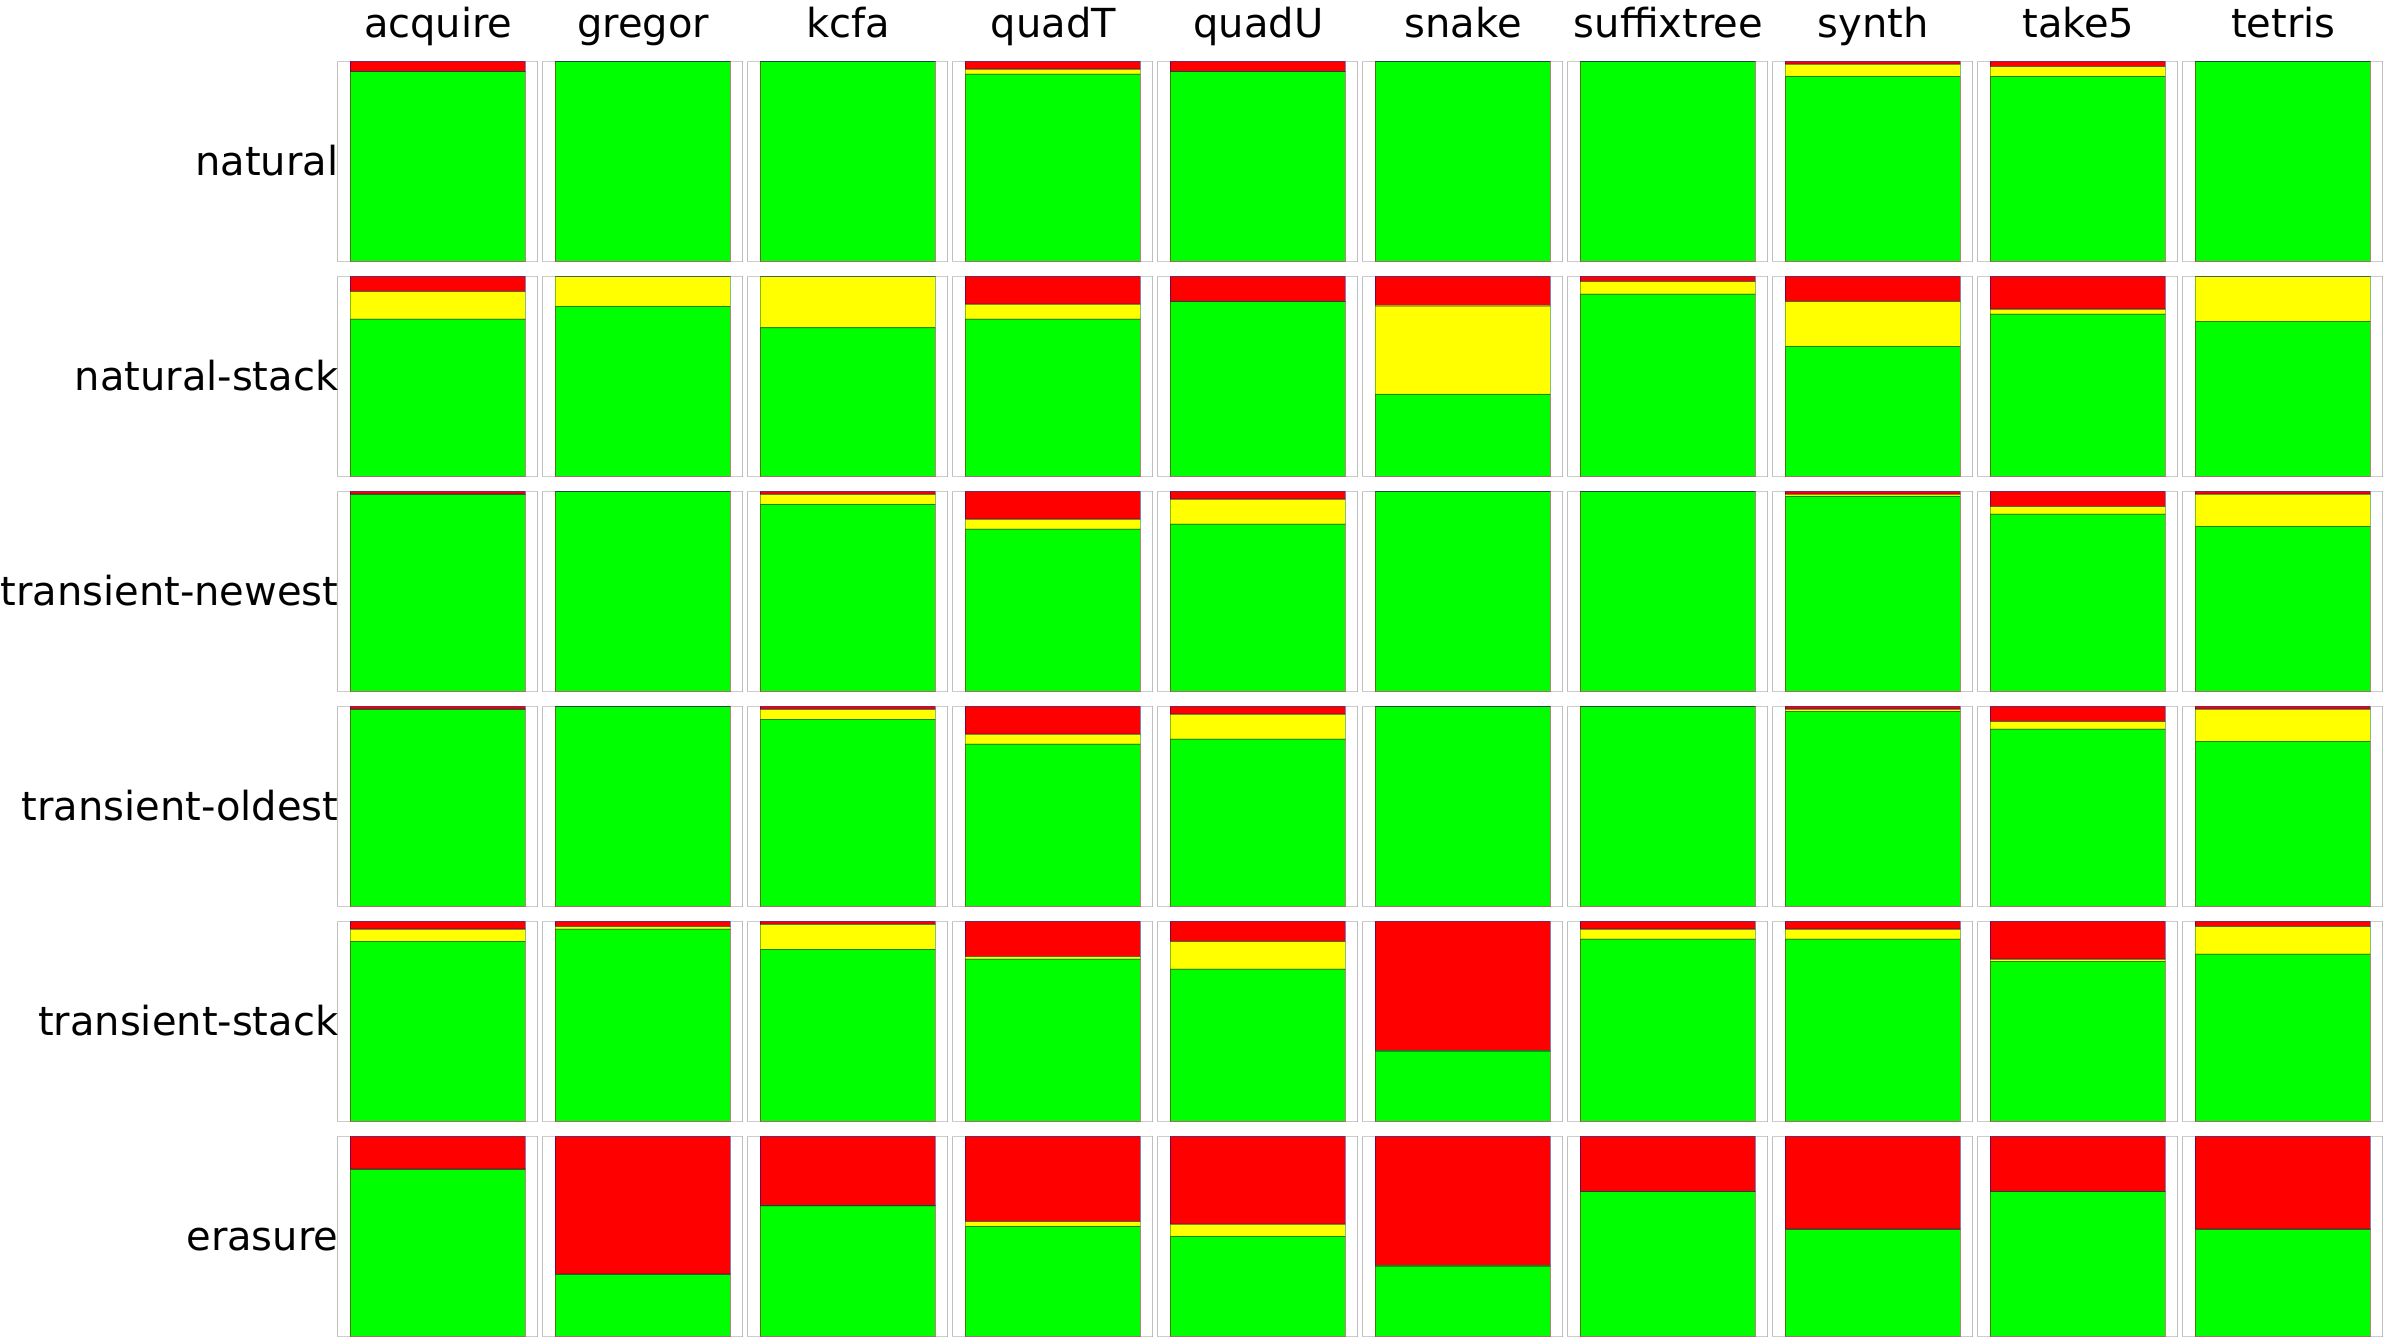
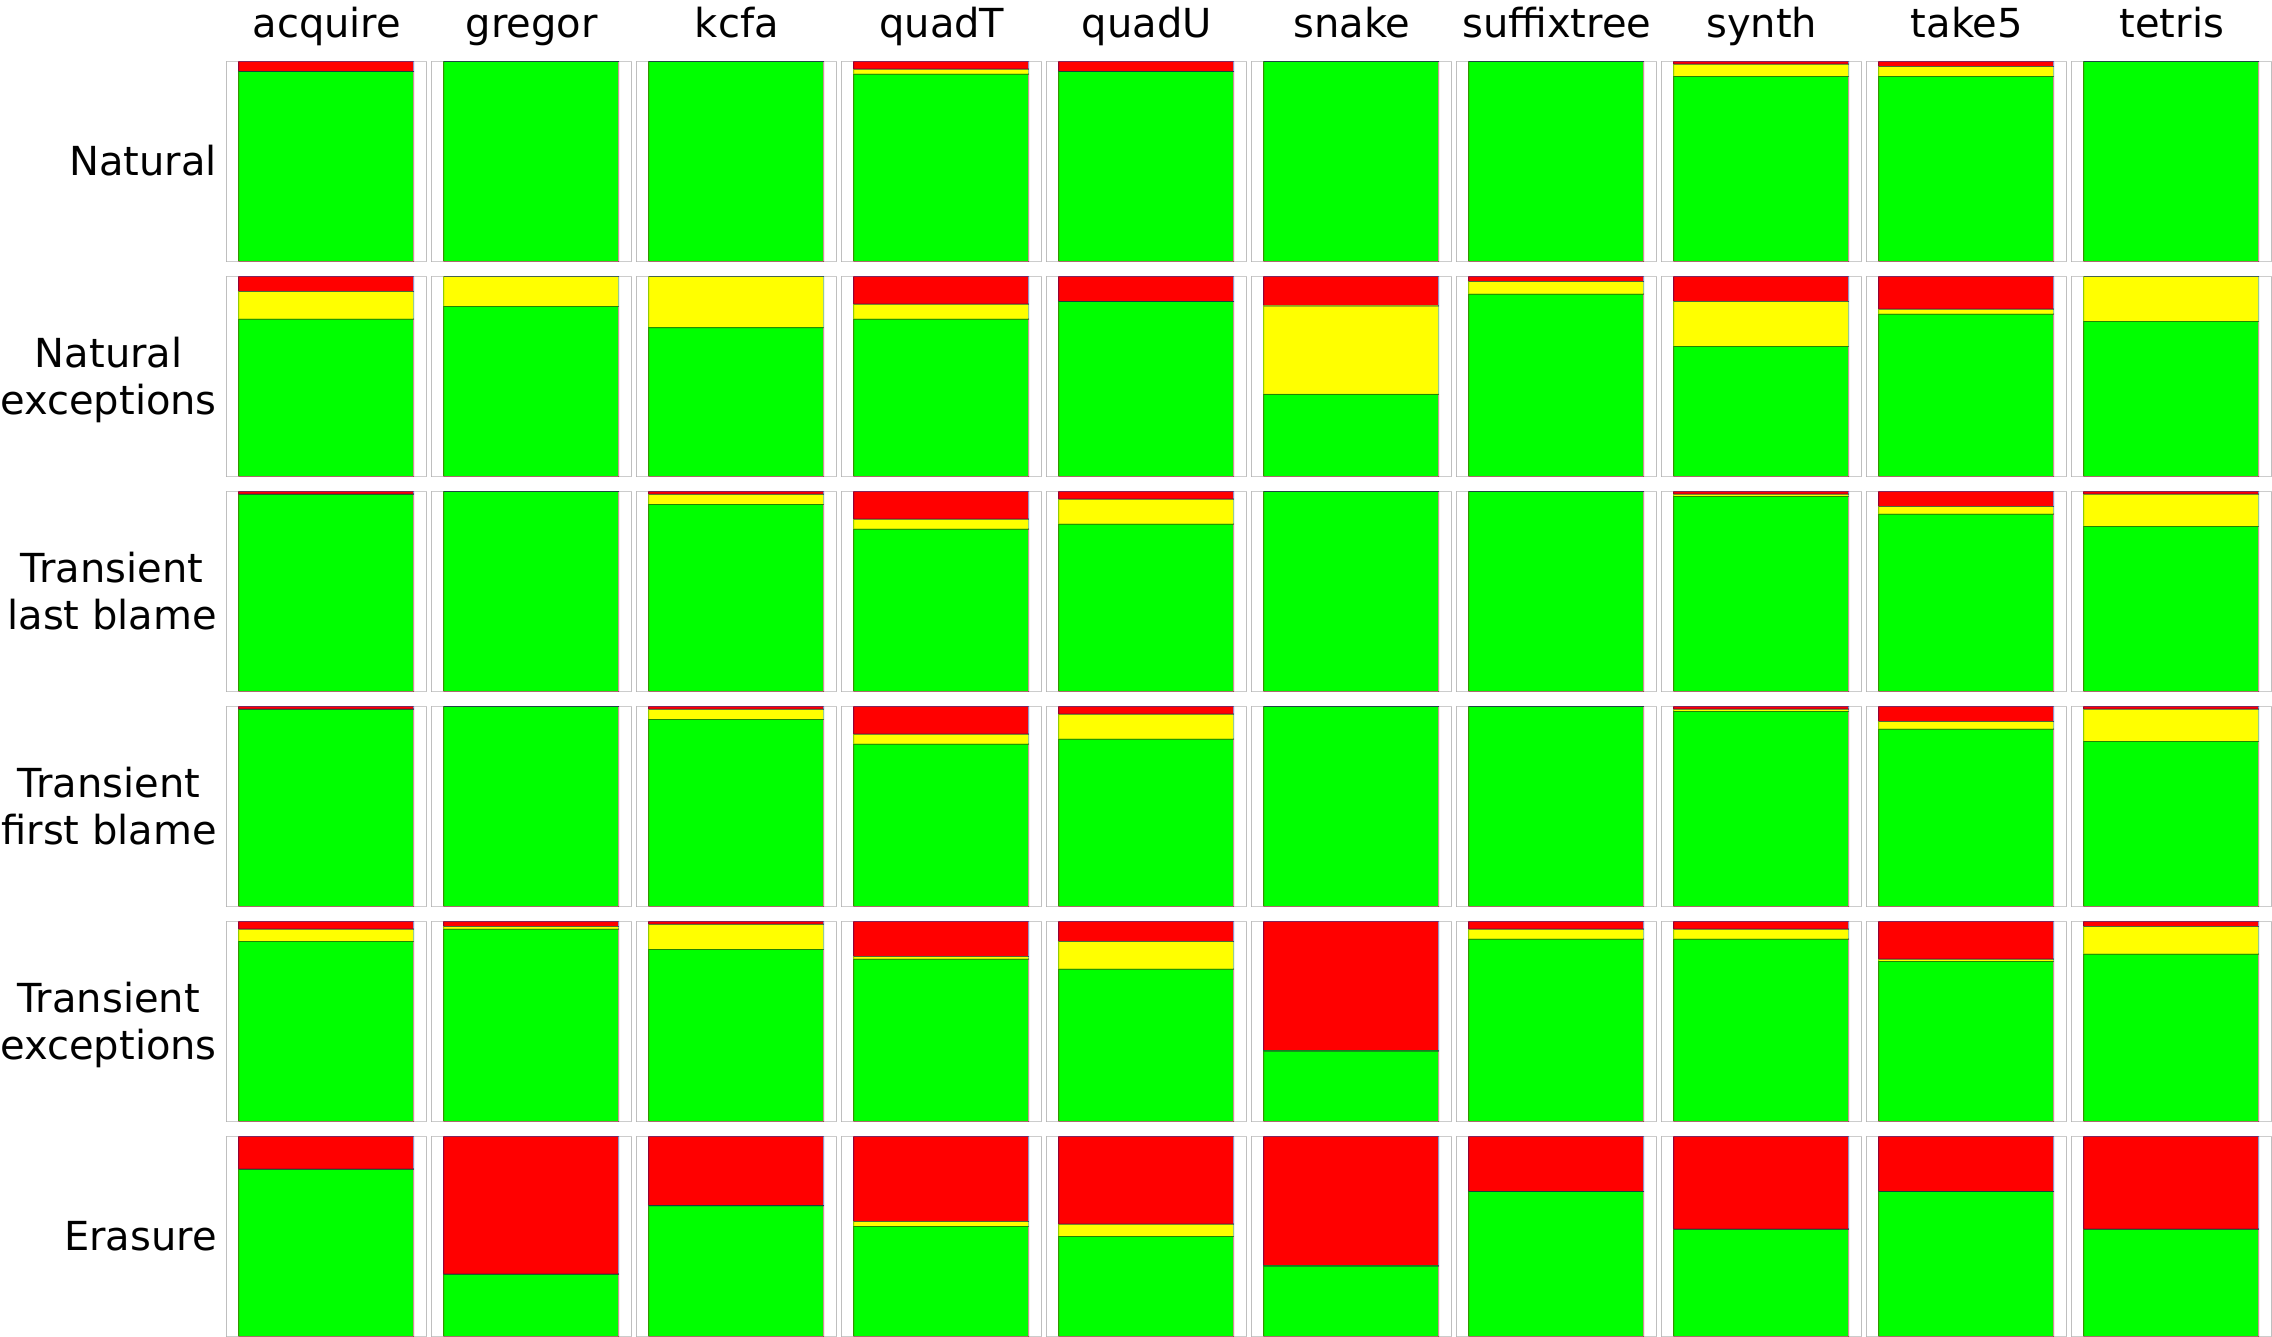
Draft section 7

diff --git a/writing/results.tex b/writing/results.tex
@@ -3,24 +3,48 @@
 \begin{figure*}
   \centering
   \includegraphics[width=0.7\textwidth]{./plots/usefulness-table}
-  \caption{Usefulness breakdown of all mutants}
+  \caption{Usefulness: Each cell plots the proportion of a benchmark's mutants for which a mode is always useful (green), sometimes useful (yellow), and never useful (red).}
   \label{fig:usefulness-table}
 \end{figure*}
 
 \begin{figure*}
   \centering
   \includegraphics[width=0.95\textwidth]{./plots/bt-lengths-table}
-  \caption{Blame trail lengths}
-  \label{fig:usefulness-table}
+  \caption{Programmer effort: Each cell depicts the distribution of trail lengths for a given mode and benchmark. The leftmost bar of every distribution shows the proportion of trails with length zero, and each bar to the right shows the same for length one, two, three, and so on.}
+  \label{fig:effort-table}
 \end{figure*}
 
-\begin{figure*}
+\begin{figure}
   \centering
-  \includegraphics[width=0.95\textwidth]{./plots/avo-matrix}
-  \caption{Adds-value comparisons; each cell depicts the percentage of mutants for which the column mode adds value over the row mode.}
+  \includegraphics[width=0.45\textwidth]{./plots/avo-matrix}
+  \caption{Adds-value comparisons: Each row depicts the percentage of mutants for which that row's mode adds value over each other mode (in the columns). The diagonals are ommitted because they compare a mode with itself.}
   \label{fig:avo-matrix}
-\end{figure*}
+\end{figure}
 
+We present our results according to the three dimensions for assessing the utility of blame described in section~\ref{sec:rational}: how often blame is always, sometimes, and never useful (figure~\ref{fig:usefulness-table}); programmer effort (figure~\ref{fig:effort-table}); and how often one mode adds value over another mode (figure~\ref{fig:avo-matrix}).
+In this section we analyze each of these dimensions in turn, and in the next we discuss the analysis's high level conclusions.
 
+Figure~\ref{fig:usefulness-table} breaks down how often blame is useful (as defined in section~\ref{sec:rational}) for every benchmark and every mode of the rational programmer.
+Each mode corresponds to a row of the table, while the columns correspond to our benchmarks.
+Each cell plots the proportion of a benchmark's mutants for which a mode is always useful (green), sometimes useful (yellow), and never useful (red).
+Comparing the overall pattern of one row to the others provides a broad understanding of how the usefulness of that mode compares with the others.
+For instance, the large proportions of red across Erasure indicates that for many mutants it is never useful.
 
+Figure~\ref{fig:effort-table} shows the distribution of trail lengths for every benchmark and every mode of the rational programmer.
+The modes correspond to rows and columns to benchmarks, like figure~\ref{fig:usefulness-table}.
+In this case, however, the cells plot trail length distributions starting from length zero in the leftmost bar and going up by one for each bar to the right.
+Each bar is broken into two sub-bars, which are color-coded to indicate the proportion of trails within that bar which are successful (green) and not (red).
+Again, comparing the rows of the table provides a high level view of how the lengths of trails for each mode tend to differ.
+For example, the stark difference between the Null mode's distribution and that of every mode illustrates how using blame information (as opposed to randomly selecting components to type) dramatically shortens the rational programmer's search.
+The Null distributions look approximately normal \emdash reflecting that the Null mode always selects a random next component to type \emdash but shifted left, reflecting that our scenarios start with a randomly-selected subset of components already typed.
+On the other hand, all of the other modes have distributions that are significantly more concentrated around trails of length one and two.
+
+Finally, figure~\ref{fig:avo-matrix} shows a head-to-head comparison of each mode against every other mode.
+Each cell of the table compares one mode to another using section~\ref{sec:rational}'s definition of a mode \emph{adding value over} another mode.
+In particular, a cell in row $R$ and column $C$ plots the percentage of mutants for which $R$ adds value over $C$.
+For example, the second cell in the row of Natural shows that Natural adds value over Natural exceptions for 18.9\% of all the mutants we consider.
+Reading across a given row $R$ provides an overview of how $R$ compares to every other mode;
+the higher the bars, the more mutants for which $R$ is strictly more useful than the other modes.
+Reading down a given row $C$ provides an overview of how every other mode compares to $C$;
+the higher the bars, the more mutants for which $C$ is strictly less useful than the other modes.
 
